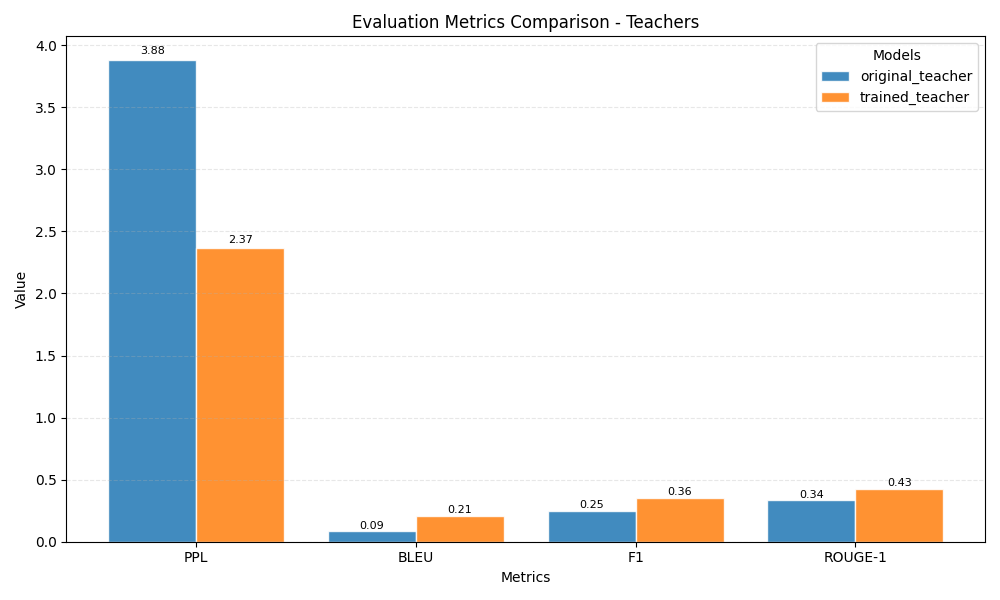
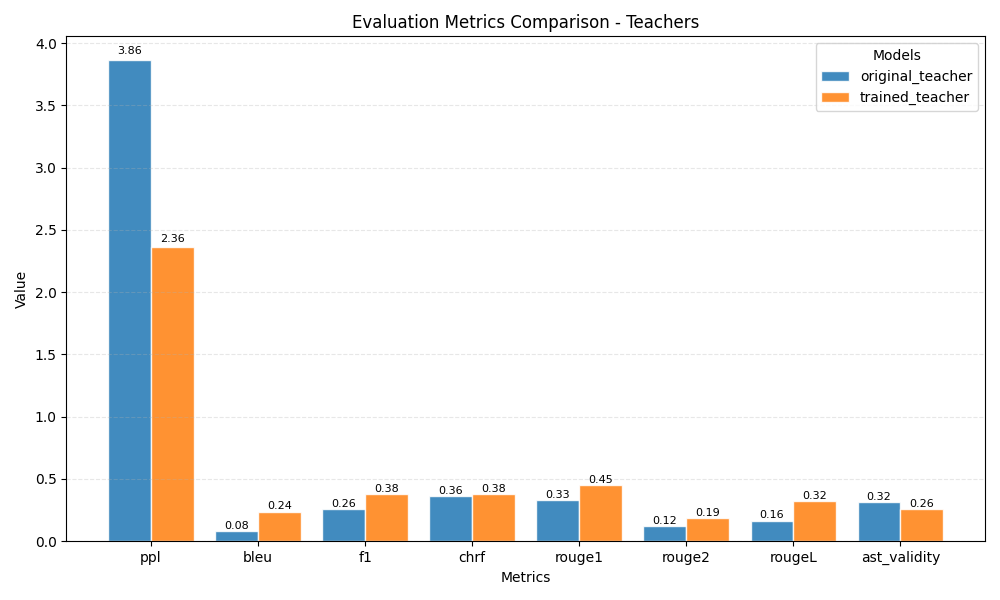
optimized code

diff --git a/distillkit/evaluation.py b/distillkit/evaluation.py
@@ -150,7 +150,7 @@ def calculate_chrf(
 def calculate_ast_validity(predictions: List[str], language: str = "python") -> float:
     """
     Calculates the percentage of predictions that are syntactically valid 
-    (parseable into an AST).
+    (parsable into an AST).
     Currently only supports Python using the built-in `ast` module.
     """
     if not predictions:
@@ -391,14 +391,16 @@ def evaluate_model(  # noqa: C901
     LOG.info(f"Evaluating {model_name} at {model_path}")
     results = {"model_name": model_name, "model_path": model_path}
 
-    # Load Model (supports 4bit if teacher config present)
+    # Load Model (supports 4bit if teacher config present, but never for student models)
     try:
         load_kwargs = {
             "trust_remote_code": True,
             "torch_dtype": torch.bfloat16 if eval_config.device == "cuda" else torch.float32,
             "device_map": eval_config.device,
         }
-        if teacher_config and teacher_config.load_in_4bit:
+        # Only use 4bit quantization for teacher models, never for student models
+        is_student = "student" in model_name.lower()
+        if teacher_config and teacher_config.load_in_4bit and not is_student:
             from transformers import BitsAndBytesConfig
             load_kwargs["quantization_config"] = BitsAndBytesConfig(
                 load_in_4bit=True,
@@ -483,10 +485,10 @@ def evaluate_all_models(
 
     all_results = {}
     model_configs = [
-        ("original_teacher", config.original_teacher_path, teacher_config),
-        ("trained_teacher", config.trained_teacher_path, teacher_config),
-        ("original_student", config.original_student_path, None),
         ("distilled_student", config.distilled_student_path, None),
+        ("original_student", config.original_student_path, None),
+        ("trained_teacher", config.trained_teacher_path, teacher_config),
+        ("original_teacher", config.original_teacher_path, teacher_config),
     ]
 
     for name, path, t_conf in model_configs:

diff --git a/v2_results_example/plot_logs.py b/v2_results_example/plot_logs.py
@@ -7,6 +7,7 @@ from pathlib import Path
 DISTILL_FILE = Path("distill.jsonl")
 TEACHER_FILE = Path("teacher_training.jsonl")
 EVAL_FILE = Path("evaluation_results.json")
+EVAL_METRICS = ["ppl", "bleu", "f1", "chrf", "rouge1", "rouge2", "rougeL", "ast_validity"]
 MAX_POINTS = 1000
 
 
@@ -132,7 +133,11 @@ def read_evaluation_results(file_path):
             "ppl": val["ppl"],
             "bleu": val["bleu"],
             "f1": val["f1"],
-            "rouge1": val["rouge"]["rouge1"]
+            "chrf": val["chrf"],
+            "rouge1": val["rouge"]["rouge1"],
+            "rouge2": val["rouge"]["rouge2"],
+            "rougeL": val["rouge"]["rougeL"],
+            "ast_validity": val["ast_validity"]
         }
         results.append(item)
 
@@ -224,8 +229,8 @@ def plot_grouped_metrics(models_list, title_suffix):
         print(f"[Info] No models found for {title_suffix}, skipping plot.")
         return
 
-    metric_keys = ['ppl', 'bleu', 'f1', 'rouge1']
-    metric_labels = ['PPL', 'BLEU', 'F1', 'ROUGE-1']
+    metric_keys = EVAL_METRICS
+    metric_labels = EVAL_METRICS
 
     n_metrics = len(metric_keys)
     n_models = len(models_list)
